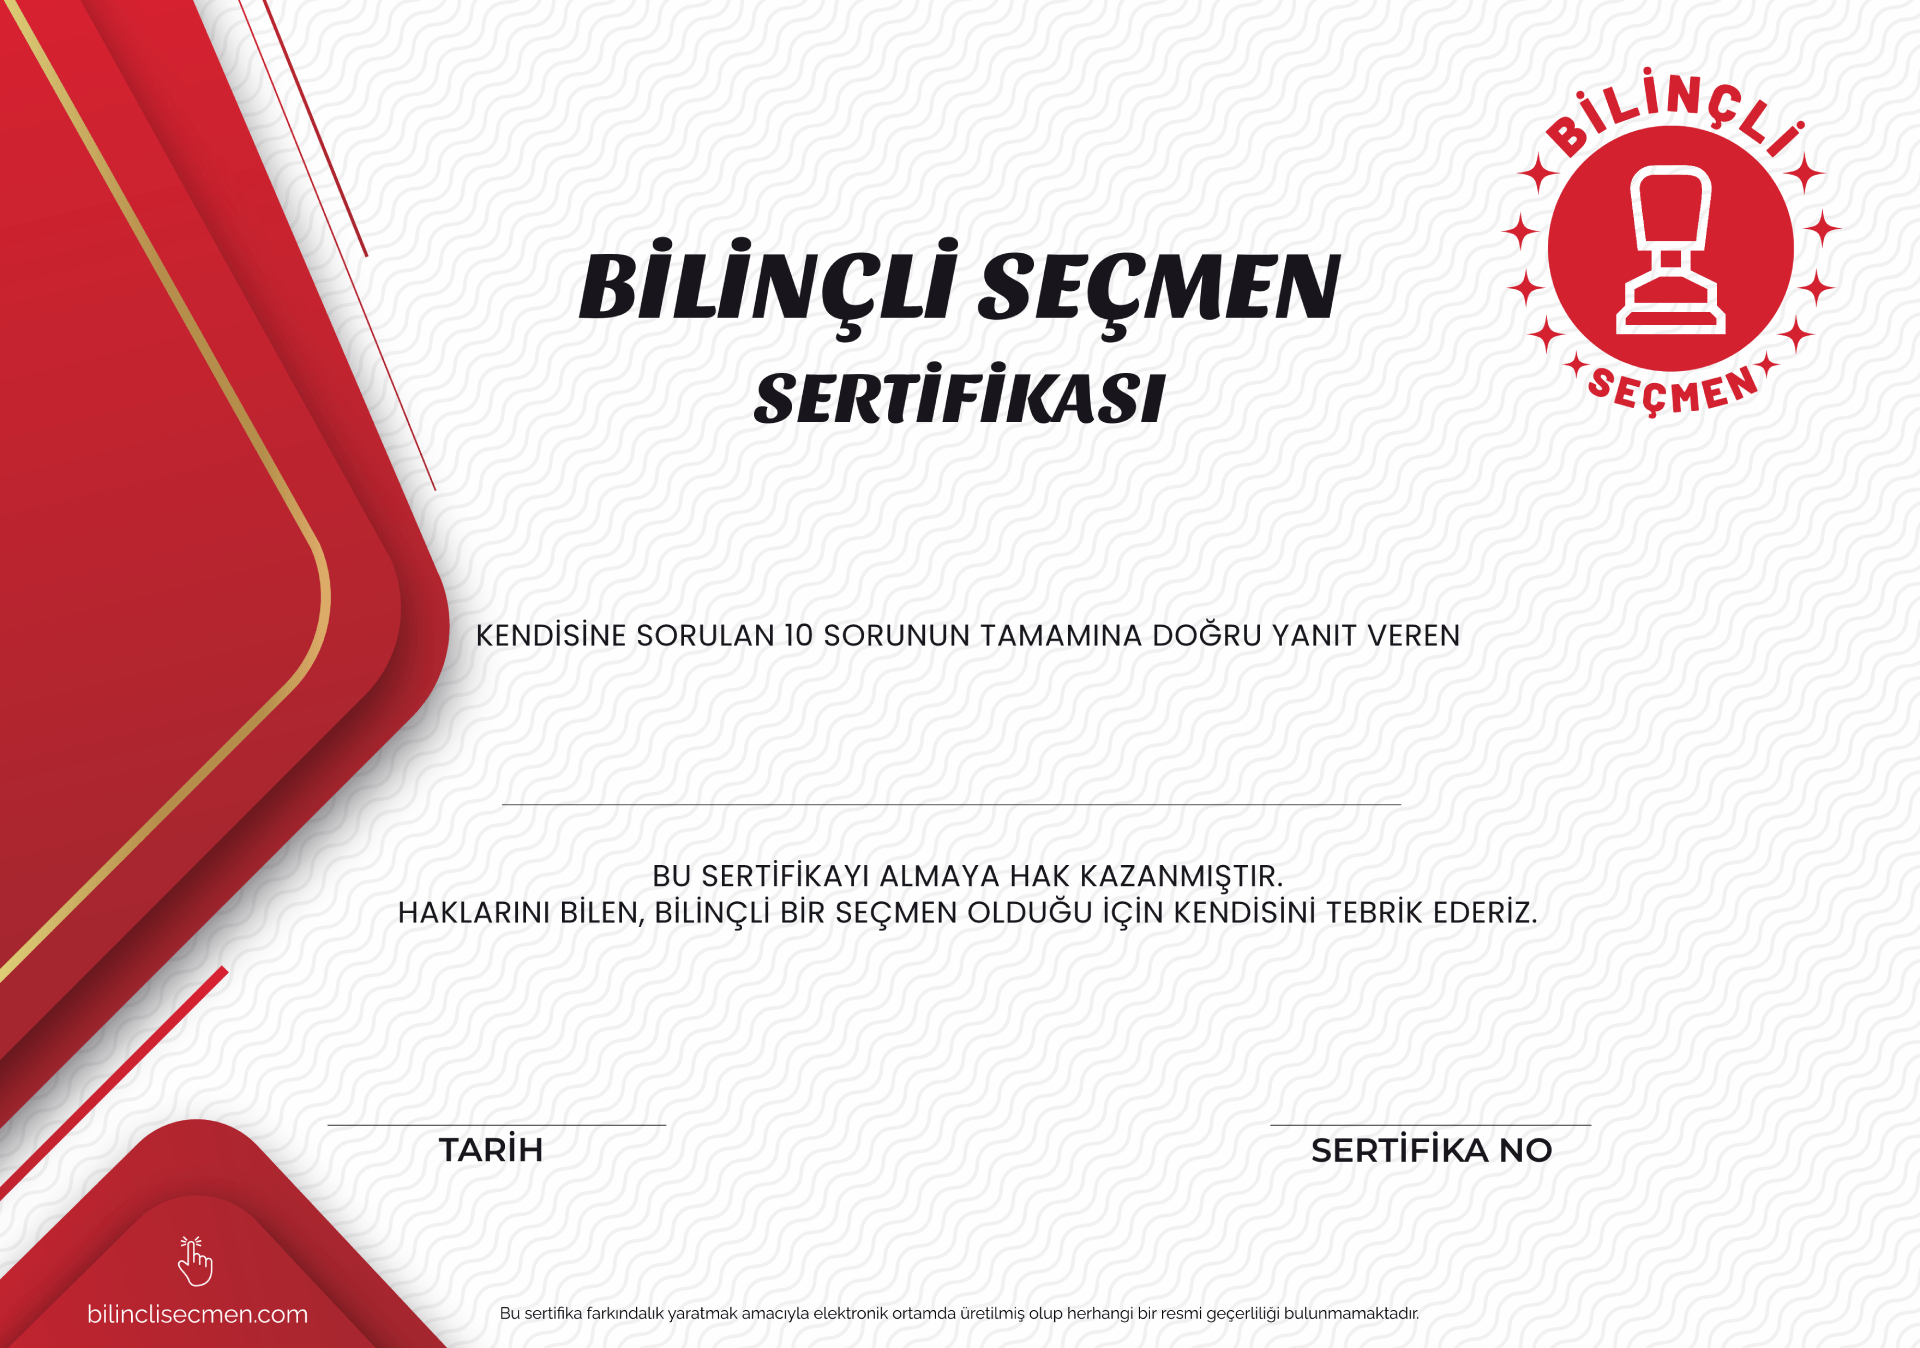
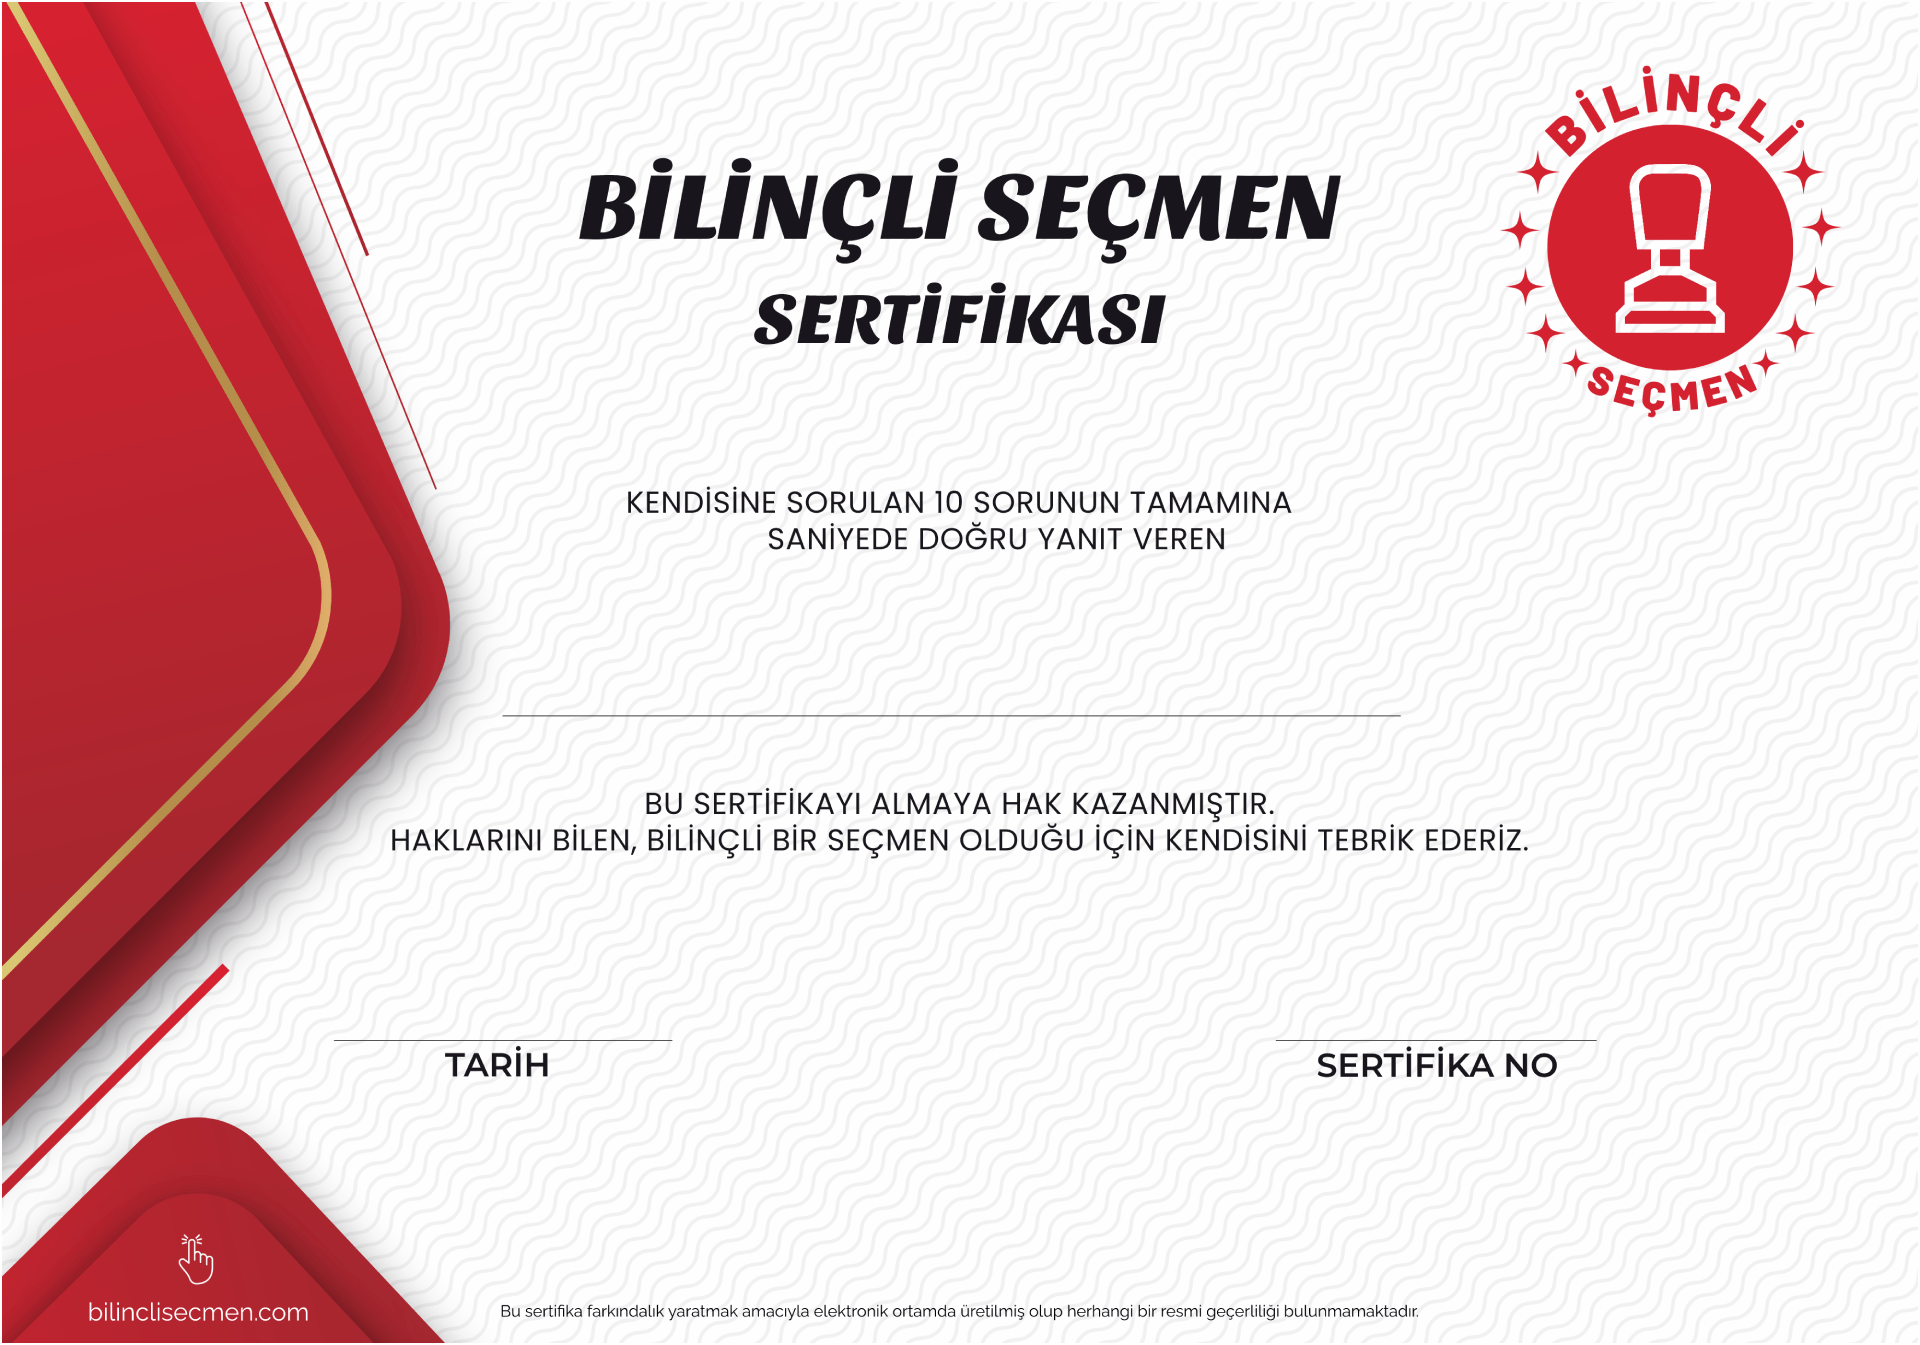
edit some details

diff --git a/index.html b/index.html
@@ -11,8 +11,8 @@ sezer@iltekin.com
 <head>
     <meta charset="UTF-8"/>
     <meta name="viewport" content="width=device-width, initial-scale=1.0"/>
-    <link rel="stylesheet" href="css/style.css?v=19"/>
-    <link rel="icon" href="favicon.png?v=19"/>
+    <link rel="stylesheet" href="css/style.css?v=20"/>
+    <link rel="icon" href="favicon.png?v=20"/>
 
     <!-- Primary Meta Tags -->
     <title>Bilinçli Seçmen</title>
@@ -24,14 +24,14 @@ sezer@iltekin.com
     <meta property="og:url" content="https://bilinclisecmen.com/">
     <meta property="og:title" content="Bilinçli Seçmen">
     <meta property="og:description" content="10 sorunun tamamına 150 saniye içinde doğru cevap vererek \"Bilinçli Seçmen Sertifikası\" kazanabileceğiniz web sitesi.">
-    <meta property="og:image" content="https://bilinclisecmen.com/image/meta.png?v=19">
+    <meta property="og:image" content="https://bilinclisecmen.com/image/meta.png?v=20">
     
     <!-- Twitter -->
     <meta property="twitter:card" content="summary_large_image">
     <meta property="twitter:url" content="https://bilinclisecmen.com/">
     <meta property="twitter:title" content="Bilinçli Seçmen">
     <meta property="twitter:description" content="10 sorunun tamamına 150 saniye içinde doğru cevap vererek \"Bilinçli Seçmen Sertifikası\" kazanabileceğiniz web sitesi.">
-    <meta property="twitter:image" content="https://bilinclisecmen.com/image/meta.png?v=19">
+    <meta property="twitter:image" content="https://bilinclisecmen.com/image/meta.png?v=20">
 
 </head>
 <body>
@@ -48,7 +48,7 @@ sezer@iltekin.com
     <div id="menuContents" class="hideThis">
         <h2>Nedir?</h2>
         <div class="menu-inner">
-            Yazılım geliştirici <a class="brandColor" href="https://twitter.com/sezeriltekin" target="_blank">Sezer İltekin</a> tarafından oluşturulan bilinclisecmen.com web sitesi Türkiye gündemindeki siyasi konulara odaklanarak, vatandaşlarımızın genel kültür ve seçim bilincini artırmak amacıyla hazırlanmış bir farkındalık projesidir.
+            Yazılım geliştirici <a class="brandColor" href="https://twitter.com/sezeriltekin" target="_blank">Sezer İltekin</a> tarafından oluşturulan bilinclisecmen.com web sitesi Türkiye gündemindeki siyasi konulara odaklanarak, vatandaşların genel kültür ve seçim bilincini artırmak amacıyla hazırlanmış bir farkındalık projesidir.
             <br/>
             <br/>
             Bu projenin herhangi bir siyasi partiyle doğrudan ya da dolaylı olarak bir bağlantısı yoktur ve herhangi bir siyasi partiye veya adaya açık bir şekilde yönlendirme yapılmamaktadır.
@@ -68,7 +68,7 @@ sezer@iltekin.com
     </div>
 </div>
 
-<a title="Bilinçli Seçmen" href="https://bilinclisecmen.com"><img class="logo" src="image/logo.svg?v=19" alt="Bilinçli Seçmen"></a>
+<a title="Bilinçli Seçmen" href="https://bilinclisecmen.com"><img class="logo" src="image/logo.svg?v=20" alt="Bilinçli Seçmen"></a>
 
 <div id="questionInfo">
     <div>SORU</div>
@@ -156,19 +156,22 @@ sezer@iltekin.com
                     <img id="sertifika_img" src="" alt="sertifika">
                 </div>
             </div>
+
             <div class="row my-2">
                 <div class="button-container">
-                    <a href="#" class="red-gradient m-download" id="download-btn">Sertifikayı İndir</a>
 
-                        <div id="download-notice">
-                            <div class="noticeIcon">
-                                <img src="image/touch.png">
-                            </div>
-                            <div>
-                                Sertifikanızı, üzerine basılı tutarak açılacak menüden galerinize kaydedebilirsiniz.
-                            </div>
+                    <div id="download-notice">
+                        <div class="noticeIcon">
+                            <img src="image/touch.png">
                         </div>
-                    
+                        <div>
+                            Sertifikanızı, üzerine basılı tutarak açılacak menüden galerinize kaydedebilirsiniz.
+                        </div>
+                    </div>
+
+                    <a href="#" class="red-gradient m-download" id="download-btn">Sertifikamı İndir</a>
+                    <a class="other-btn twitter-gradient" id="twitter-share" target="_blank" href="https://twitter.com/intent/tweet?hashtags=bilinclisecmen&text=Bilin%C3%A7li%20Se%C3%A7men%20Sertifikam%C4%B1%20ald%C4%B1m.%20Sen%20de%20almak%20i%C3%A7in%20t%C4%B1kla!&url=https%3A%2F%2Fbilinclisecmen.com">Twitter'da Paylaş</a>
+                    <a class="other-btn purple-gradient" target="_blank" href="https://forms.gle/i9WSyoZCEDpPgR2TA">Soru Gönder</a>
                 </div>
                 
                 <div id="email-notice" style="display: none;">
@@ -179,10 +182,10 @@ sezer@iltekin.com
                         Bir sonraki projeden haberdar olmak isterseniz <a href="" target="_blank">E-posta listemize</a> katılabilirsiniz.
                     </div>
                 </div>
-                
             </div>
         </div>
     </div>
+
 </div>
 
 <div id="footer">
@@ -198,7 +201,7 @@ sezer@iltekin.com
         </div>
     </div>
     <a href="https://iltekin.com" target="_blank">
-        <img src="image/iltekinbrainworks.svg?v=19" alt="iltekin brainworks">
+        <img src="image/iltekinbrainworks.svg?v=20" alt="iltekin brainworks">
     </a>
 </div>
 
@@ -219,7 +222,8 @@ sezer@iltekin.com
 </audio>
 
 <script src="https://ajax.googleapis.com/ajax/libs/webfont/1.6.26/webfont.js"></script>
-<script src="js/data.js?v=19"></script>
-<script src="js/script.js?v=19"></script>
+<script src="js/data.js?v=20"></script>
+<script src="js/script.js?v=20"></script>
+
 </body>
 </html>

diff --git a/js/script.js b/js/script.js
@@ -1,7 +1,5 @@
 const canvas = document.getElementById('canvas');
 const ctx = canvas.getContext('2d');
-const canvas2 = document.getElementById('canvas2');
-const ctx2 = canvas2.getContext('2d');
 const screenWidth = screen.width;
 let testerName = "";
 let start = "";
@@ -21,6 +19,7 @@ if(CSS.registerProperty !== undefined){
         inherits: true,
     });
     document.getElementById("certPercent").style.display = "block";
+    window.scrollTo({ top: 0, behavior: 'smooth' });
 }
 
 function numberWithCommas(x) {
@@ -100,19 +99,20 @@ function drawImage(name, date, certificateNumber, totalTime) {
 
     ctx.fillStyle = '#B4252E';
     ctx.textAlign = "center";
-    ctx.fillText(theName, 950, 810);
+    ctx.fillText(theName, 950, 720);
 
     ctx.font = '40px Roboto Mono';
-    ctx.fillText(date, 495, 1140);
-    ctx.fillText(certificateNumber, 1435, 1140);
+    ctx.fillText(date, 505, 1050);
+    ctx.fillText(certificateNumber, 1440, 1050);
     
     ctx.font = '80px Recursive';
     ctx.fillStyle = '#FFFFFF';
     ctx.fillText(createDots(), 960, 25);
 
-    //ctx.fillStyle = '#E7C76C';
-    //ctx.font = '50px Recursive';
-    //ctx.fillText(totalTime, 930, 470);
+    ctx.fillStyle = '#B4252E';
+    ctx.font = '31px Recursive';
+    //ctx.fillText(totalTime, 720, 560);
+    ctx.fillText(25, 725, 564);
 
     document.getElementById("qc").style.display = "none";
     document.getElementById("loader").style.display = "block";
@@ -254,6 +254,23 @@ function getHitNumber(add = false) {
     xhr.send();
 }
 
+function getHitNumberDev(add = false) {
+    document.getElementById("hits").innerText = String(numberWithCommas(356));
+    appendTotalCertificateNumber(356);
+}
+
+function appendTotalCertificateNumberDev(hitNumber) {
+    document.getElementById("certificates").innerText = String(numberWithCommas(356));
+    let percentage = (100 * 356) / hitNumber;
+    document.getElementById("success_percent").innerText = "%" + String(Math.floor(percentage));
+    document.getElementById("success_rate").style.display = "block";
+}
+
+function getCertificateNumberDev(name) {
+    let certificateNumber = String(356).padStart(8, "0");
+    drawImage(name, today, certificateNumber, totalTime);
+    getHitNumber();
+}
 
 function appendTotalCertificateNumber(hitNumber) {
     let xhr = new XMLHttpRequest();
@@ -268,7 +285,6 @@ function appendTotalCertificateNumber(hitNumber) {
     }
     xhr.send();
 }
-
 
 function getCertificateNumber(name) {
     let xhr = new XMLHttpRequest();

diff --git a/hakkinda.html b/hakkinda.html
@@ -13,8 +13,8 @@ sezer@iltekin.com
 <head>
   <meta charset="UTF-8"/>
   <meta name="viewport" content="width=device-width, initial-scale=1.0"/>
-  <link rel="stylesheet" href="css/style.css?v=19"/>
-  <link rel="icon" href="favicon.png?v=19"/>
+  <link rel="stylesheet" href="css/style.css?v=20"/>
+  <link rel="icon" href="favicon.png?v=20"/>
 
   <!-- Primary Meta Tags -->
   <title>Bilinçli Seçmen</title>
@@ -26,14 +26,14 @@ sezer@iltekin.com
   <meta property="og:url" content="https://bilinclisecmen.com/">
   <meta property="og:title" content="Bilinçli Seçmen">
   <meta property="og:description" content="10 sorunun tamamına 150 saniye içinde doğru cevap vererek \"Bilinçli Seçmen Sertifikası\" kazanabileceğiniz web sitesi.">
-  <meta property="og:image" content="https://bilinclisecmen.com/image/meta.png?v=19">
+  <meta property="og:image" content="https://bilinclisecmen.com/image/meta.png?v=20">
 
   <!-- Twitter -->
   <meta property="twitter:card" content="summary_large_image">
   <meta property="twitter:url" content="https://bilinclisecmen.com/">
   <meta property="twitter:title" content="Bilinçli Seçmen">
   <meta property="twitter:description" content="10 sorunun tamamına 150 saniye içinde doğru cevap vererek \"Bilinçli Seçmen Sertifikası\" kazanabileceğiniz web sitesi.">
-  <meta property="twitter:image" content="https://bilinclisecmen.com/image/meta.png?v=19">
+  <meta property="twitter:image" content="https://bilinclisecmen.com/image/meta.png?v=20">
 
 </head>
 <body>
@@ -65,7 +65,7 @@ sezer@iltekin.com
   </div>
 </div>
 
-<a title="Bilinçli Seçmen" href="https://bilinclisecmen.com"><img class="logo" src="image/logo.svg?v=19" alt="Bilinçli Seçmen"></a>
+<a title="Bilinçli Seçmen" href="https://bilinclisecmen.com"><img class="logo" src="image/logo.svg?v=20" alt="Bilinçli Seçmen"></a>
 
 <div id="main_container">
 
@@ -90,7 +90,7 @@ sezer@iltekin.com
 
 <div id="footer">
   <a href="https://iltekin.com/projects/bilincli-secmen/" target="_blank">
-    <img src="image/iltekinbrainworks.svg?v=19" alt="iltekin brainworks">
+    <img src="image/iltekinbrainworks.svg?v=20" alt="iltekin brainworks">
   </a>
 </div>
 

diff --git a/css/style.css b/css/style.css
@@ -7,7 +7,7 @@
 
 body {
     background-color: #ffffff;
-    background-image: url("../image/background.jpg?v=19");
+    background-image: url("../image/background.jpg?v=20");
     background-position: top;
     background-size: cover;
     background-repeat: no-repeat;
@@ -88,6 +88,22 @@ audio {
 
 .red-gradient:hover {
     background: #81050c linear-gradient(90deg, #d32130, #bd0b13, #bd0b13, #94141b);
+}
+
+.twitter-gradient {
+    background: #0d7cc0 linear-gradient(90deg, #0d7cc0, #1DA1F2);
+}
+
+.twitter-gradient:hover {
+    background: #0970af linear-gradient(90deg, #0970af, #0d7cc0, #1DA1F2);
+}
+
+.purple-gradient {
+    background: #772493 linear-gradient(90deg, #772493, #ac1cba);
+}
+
+.purple-gradient:hover {
+    background: #46095B linear-gradient(90deg, #46095B, #772493, #ac1cba);
 }
 
 .blue-gradient {
@@ -432,10 +448,11 @@ li:hover {
 #download-notice {
     display: none;
     margin: 20px 10px;
-    padding: 10px;
+    padding: 20px 10px;
     line-height: 1.2;
-    background: rgb(232 194 88 / 25%);
+    background: rgb(4 142 60 / 80%);
     border-radius: 10px;
+    color: #FFFFFF;
 }
 
 

diff --git a/js/data.js b/js/data.js
@@ -1,9 +1,12 @@
 const api = "https://count.bilinclisecmen.com:5001";
+const quizLimit = 1; // default: 10
+const answerTime = 15; //default: 15
 
-const quizLimit = 10; // default: 10
-const answerTime = 1115; //default: 15
-
-// Evet cevaplar görünüyor çünkü ben görünmesini tercih ettim. Teşekkür ederim.
+// Bu dosyayı keşfedip sosyal medyada paylaşan kişi aşağıdakilerden hangisidir?
+// a: "HAckEr",
+// b: "HAckEr",
+// c: "HAckEr",
+// d: "HAckEr",
 
 const quizData = [
     {
